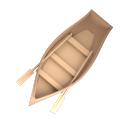
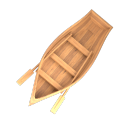
Add oak wood texture to rowboat

Changed region(s): [[0.125, 0.0625, 0.875, 0.9062]]

diff --git a/client/src/lib/utils/boatMount.test.ts b/client/src/lib/utils/boatMount.test.ts
@@ -9,10 +9,15 @@ beforeAll(async () => {
   const file = readFileSync(
     new URL('../../../public/models/mounts/rowboat.glb', import.meta.url)
   )
-  gltf = await new GLTFLoader().parseAsync(
-    file.buffer.slice(file.byteOffset, file.byteOffset + file.byteLength),
-    ''
-  )
+  gltf = await new GLTFLoader()
+    .register(() => ({
+      name: 'headless-materials',
+      loadMaterial: async () => new THREE.MeshBasicMaterial(),
+    }))
+    .parseAsync(
+      file.buffer.slice(file.byteOffset, file.byteOffset + file.byteLength),
+      ''
+    )
 })
 
 function advance(boat: BoatMount, seconds: number, speed: number, fps = 60) {

diff --git a/tools/blender-scripts/build_rowboat.py b/tools/blender-scripts/build_rowboat.py
@@ -22,6 +22,35 @@ STATIONS = 37
 RIB_POINTS = 19
 # Hide the water plane inside the hull.
 SOLE_Z = 0.06
+WOOD_LENGTH = 2.0
+WOOD_WIDTH = 0.8
+
+
+def wood_material(name, image, roughness):
+    material = principled(name, (1, 1, 1, 1), roughness)
+    texture = material.node_tree.nodes.new('ShaderNodeTexImage')
+    texture.image = image
+    texture.extension = 'REPEAT'
+    material.node_tree.links.new(
+        texture.outputs['Color'],
+        material.node_tree.nodes['Principled BSDF'].inputs['Base Color'],
+    )
+    return material
+
+
+def map_box_wood(obj, grain_axis):
+    mesh = obj.data
+    uv = mesh.uv_layers.active or mesh.uv_layers.new(name='WoodUV')
+    for face in mesh.polygons:
+        axes = [axis for axis in range(3) if abs(face.normal[axis]) < 0.5]
+        along = grain_axis if grain_axis in axes else axes[0]
+        across = next(axis for axis in axes if axis != along)
+        for loop in face.loop_indices:
+            point = mesh.vertices[mesh.loops[loop].vertex_index].co
+            uv.data[loop].uv = (
+                point[along] * obj.scale[along] / WOOD_LENGTH + 0.5,
+                point[across] * obj.scale[across] / WOOD_WIDTH + 0.3,
+            )
 
 
 def smoothstep(t):
@@ -93,11 +122,13 @@ def build_hull(material):
         return shell + i * RIB_POINTS + j
 
     faces = []
+    rim_faces = set()
     for i in range(STATIONS - 1):
         for j in range(RIB_POINTS - 1):
             faces.append((outer(i, j), outer(i, j + 1), outer(i + 1, j + 1), outer(i + 1, j)))
             faces.append((inner(i, j), inner(i, j + 1), inner(i + 1, j + 1), inner(i + 1, j)))
         for j in (0, RIB_POINTS - 1):
+            rim_faces.add(len(faces))
             faces.append((outer(i, j), outer(i + 1, j), inner(i + 1, j), inner(i, j)))
     stern = STATIONS - 1
     transom_faces = len(faces)
@@ -111,8 +142,25 @@ def build_hull(material):
     mesh = bpy.data.meshes.new('Hull')
     mesh.from_pydata(verts, [], faces)
     mesh.materials.append(material)
+    uv = mesh.uv_layers.new(name='WoodUV')
     for face in mesh.polygons:
         face.use_smooth = face.index < transom_faces
+        for loop in face.loop_indices:
+            vertex = mesh.loops[loop].vertex_index
+            x, y, z = verts[vertex]
+            if face.index == transom_faces + 2:
+                coords = (x / WOOD_LENGTH + 0.5, y / WOOD_WIDTH + 0.3)
+            elif face.index >= transom_faces:
+                coords = (x / WOOD_LENGTH + 0.5, z / WOOD_WIDTH)
+            elif face.index in rim_faces:
+                coords = ((y + LENGTH / 2) / WOOD_LENGTH, x / WOOD_WIDTH + 0.3)
+            else:
+                j = vertex % RIB_POINTS
+                coords = (
+                    (y + LENGTH / 2) / WOOD_LENGTH,
+                    abs(2 * j / (RIB_POINTS - 1) - 1),
+                )
+            uv.data[loop].uv = coords
     obj = bpy.data.objects.new('Hull', mesh)
     bpy.context.collection.objects.link(obj)
 
@@ -151,18 +199,23 @@ def build_sole(material):
     mesh = bpy.data.meshes.new('Sole')
     mesh.from_pydata(verts, [], faces)
     mesh.materials.append(material)
+    uv = mesh.uv_layers.new(name='WoodUV')
+    for loop in mesh.loops:
+        x, y, _ = verts[loop.vertex_index]
+        uv.data[loop.index].uv = ((y + LENGTH / 2) / WOOD_LENGTH, x / WOOD_WIDTH + 0.5)
     obj = bpy.data.objects.new('Sole', mesh)
     bpy.context.collection.objects.link(obj)
     return obj
 
 
-def add_box(name, location, scale, material):
+def add_box(name, location, scale, material, grain_axis=0):
     bpy.ops.mesh.primitive_cube_add(size=2.0, location=location)
     obj = bpy.context.object
     obj.name = name
     obj.data.name = name
     obj.scale = scale
     obj.data.materials.append(material)
+    map_box_wood(obj, grain_axis)
     return obj
 
 
@@ -182,7 +235,16 @@ def add_oar(name, side, material):
     bpy.ops.mesh.primitive_cylinder_add(radius=0.026, depth=oar_len, location=(0, 0, 0))
     shaft = bpy.context.object
     shaft.data.materials.append(material)
-    blade = add_box('OarBlade', (0.0, 0.0, oar_len * 0.42), (0.075, 0.012, 0.30), material)
+    uv = shaft.data.uv_layers.active
+    for face in shaft.data.polygons:
+        for loop in face.loop_indices:
+            x, y, z = shaft.data.vertices[shaft.data.loops[loop].vertex_index].co
+            if abs(face.normal.z) > 0.5:
+                coords = (x / WOOD_LENGTH + 0.5, y / WOOD_WIDTH + 0.3)
+            else:
+                coords = (z / WOOD_LENGTH + 0.5, math.atan2(y, x) / (2 * math.pi) * 0.15 + 0.3)
+            uv.data[loop].uv = coords
+    blade = add_box('OarBlade', (0.0, 0.0, oar_len * 0.42), (0.075, 0.012, 0.30), material, grain_axis=2)
     bpy.ops.object.select_all(action='DESELECT')
     shaft.select_set(True)
     blade.select_set(True)
@@ -197,8 +259,12 @@ def add_oar(name, side, material):
 
 def main():
     bpy.ops.wm.read_factory_settings(use_empty=True)
-    oak = principled('BoatOak', (0.16, 0.086, 0.043, 1), 0.78)
-    trim = principled('BoatTrim', (0.28, 0.17, 0.09, 1), 0.62)
+    source = ROOT / 'assets/rowboat'
+    texture = bpy.data.images.load(str(source / 'wood_albedo.png'))
+    texture.scale(1024, 1024)
+    texture.pack()
+    oak = wood_material('BoatOak', texture, 0.82)
+    trim = wood_material('BoatTrim', texture, 0.7)
 
     hull = build_hull(oak)
     parts = [hull]
@@ -221,7 +287,6 @@ def main():
     bpy.context.view_layer.objects.active = hull
     bpy.ops.object.transform_apply(location=False, rotation=True, scale=True)
 
-    source = ROOT / 'assets/rowboat'
     source.mkdir(parents=True, exist_ok=True)
     bpy.ops.wm.save_as_mainfile(filepath=str(source / 'rowboat.blend'))
     bpy.ops.export_scene.gltf(
@@ -229,6 +294,8 @@ def main():
         export_format='GLB',
         use_selection=True,
         export_animations=False,
+        export_image_format='WEBP',
+        export_image_quality=90,
     )
 
     world = bpy.data.worlds.new('World')

diff --git a/doc/assets/props.md b/doc/assets/props.md
@@ -34,20 +34,29 @@
 ## Mounts
 
 - rowboat.glb — `tools/blender-scripts/build_rowboat.py`가 절차적으로 생성하는 노 젓는 배 (2026-09-14,
-  Blender 5.2.1 LTS). 외부 모델·텍스처·AI 생성물 없음, 저장소 라이선스를 따른다.
-  스크립트가 원본이며 재실행하면 같은 결과가 나온다 (`blender -b -P tools/blender-scripts/build_rowboat.py`).
+  Blender 5.2.1 LTS). 메시의 라이선스는 저장소를 따르며, 나무 텍스처 출처와 이용 조건은 아래에 기록한다.
+  스크립트와 `assets/rowboat/wood_albedo.png`로 재생성한다 (`blender -b -P tools/blender-scripts/build_rowboat.py`).
   선체는 단면 19점 × 길이 37 스테이션을 5cm 판재 두께로 안팎 두 겹 로프팅한 닫힌 셸이다.
   선미는 선체와 이어진 5cm 두께의 평판으로 막고, 안쪽 끝단을 그만큼 앞당겼다.
   선수 끝은 양쪽 꼭짓점을 중심선에서 용접해 틈 없이 만나며, 안쪽 선수는 5cm 뒤에서 닫힌다
   (2026-09-17, Blender 5.2.0 LTS로 모델·원본·아이콘 재생성).
   가로보 3개(`ThwartBow`/`ThwartMid`/`ThwartStern`)와 노 2개(`OarPort`/`OarStarboard`)는 클라이언트가
-  따로 돌릴 수 있게 별도 노드다. 삼각형 3,140개, 텍스처 없이 단색 머티리얼 2개(`BoatOak`, `BoatTrim`).
+  따로 돌릴 수 있게 별도 노드다. 삼각형 3,140개, 머티리얼 2개(`BoatOak`, `BoatTrim`)가
+  1024² WebP q90 나무 텍스처 하나를 공유한다. 선체·바닥은 길이 방향, 가로보는 폭 방향,
+  노는 자루·날의 길이 방향으로 UV를 배치했다 (2026-09-17). 거칠기는 선체 0.82, 나머지 0.7.
   크기 1.37×3.40m(폭×길이), 용골 -0.15m ~ 뱃전 0.53m.
   **원점은 용골이 아니라 흘수선**(draft 0.15m)이라 샘플링한 수면 높이에 그대로 올리면 된다.
   뱃머리는 Blender -Y = **glTF +Z**. 탑승점은 말과 같은 이름의 빈 오브젝트 `RideSeat`
   (고물 가로보 위, glTF 기준 `[0, 0.196, -0.748]`). 아이콘 `client/public/items/objects/rowboat.png`는
   같은 스크립트가 `icon_render` 공용 레시피로 렌더한다.
   말 출처는 [animals.md](animals.md), 게임 규칙은 [MOUNTS.md](../MOUNTS.md).
+- `assets/rowboat/wood_albedo.png` — 나룻배용 따뜻한 갈색 오크 판재 텍스처 원본, 1254² PNG.
+  - 출처: OpenAI 내장 `image_gen`으로 생성, 2026-09-17 (KST).
+  - 생성 도구/티어: Codex 내장 이미지 생성; 계정 요금제와 서비스 티어는 도구에서 미노출.
+  - 라이선스: OpenAI 생성 출력물에 적용되는 서비스 약관. 별도 제3자 stock/CC 에셋을 사용하지 않음.
+  - 프롬프트: [rowboat-wood-prompt.txt](rowboat-wood-prompt.txt). 수평 나뭇결·판재 5줄, 균일한 조명,
+    무광의 가벼운 풍화, 좁은 이음새를 요청했다. 생성 원본은 보존하고 빌드에서 1024²로 축소해
+    GLB에 내장하며, `assets/rowboat/rowboat.blend`에도 텍스처를 포함한다.
 
 ## House
 
